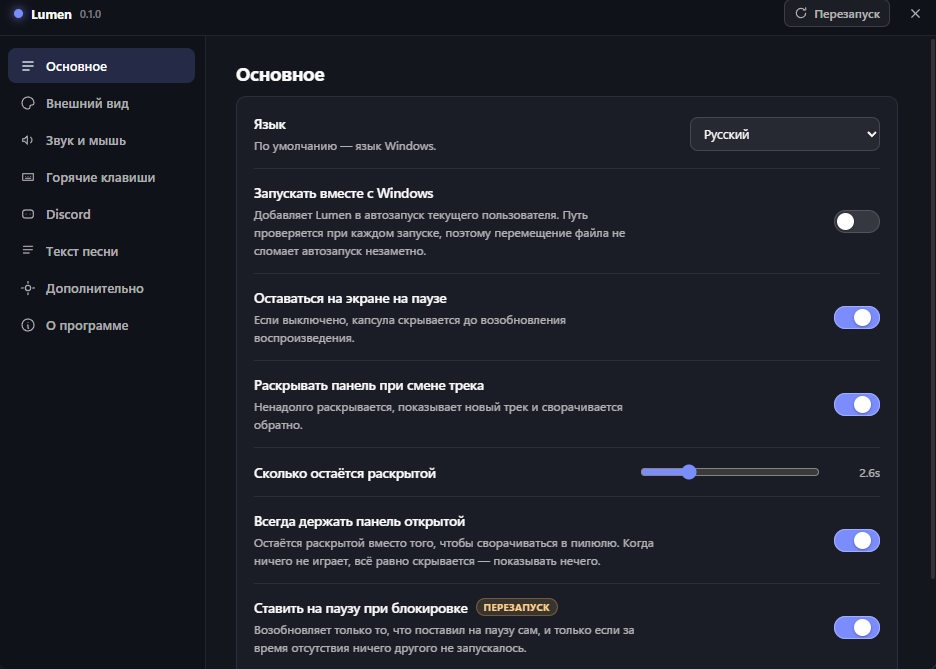
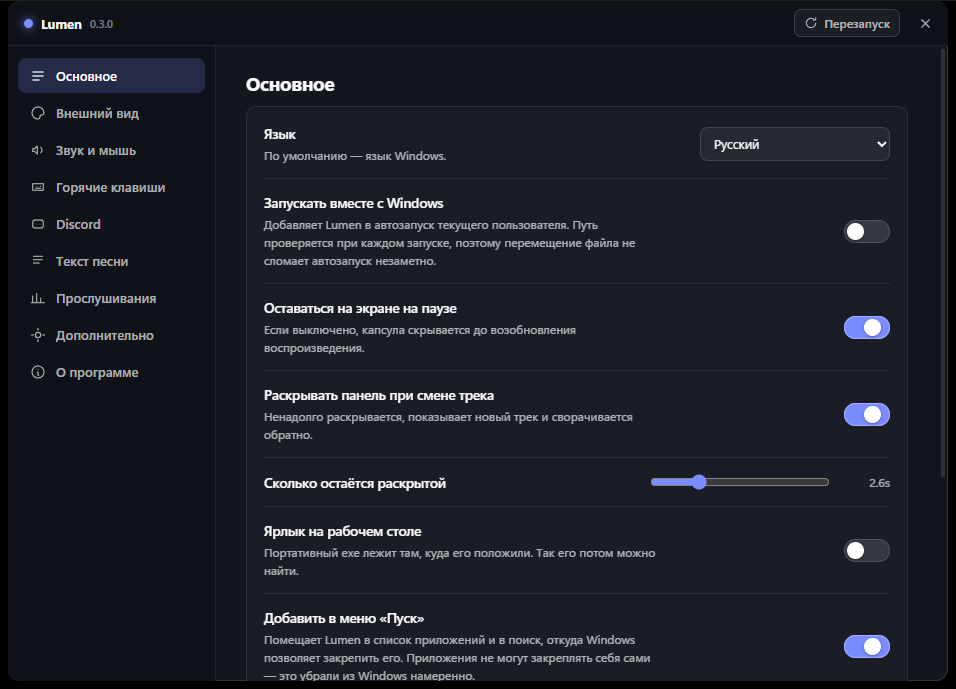
docs: shoot the settings window again at 0.3.0
The screenshots in both READMEs were taken at 0.1.0: an eight-tab sidebar
with no Listening tab, and a version number three releases stale in the
title bar. Retaken from the shipped exe, English and Russian.

The key art and both feature lists also still claimed a 4.3 MB exe. It is
4,652,544 bytes now — 4.4 MB. A size claim is the kind of number a reader
checks against the file they just downloaded, so it does not get to drift.

diff --git a/README.ru.md b/README.ru.md
@@ -58,7 +58,7 @@
   ненадёжен.
 - **Проверка обновлений.** Один запрос за запуск к текстовому файлу в этом
   репозитории. Только сообщает — ничего не скачивает и не подменяет.
-- **Портативность.** Один exe на 4,3 МБ и один JSON рядом с ним. Без
+- **Портативность.** Один exe на 4,4 МБ и один JSON рядом с ним. Без
   установщика и без реестра, кроме необязательной записи автозапуска.
 
 ## Стек

diff --git a/README.md b/README.md
@@ -56,7 +56,7 @@ do with it.
   is unreliable by nature.
 - **Update check.** One request per launch to a text file in this repository.
   It reports; it never downloads or replaces anything.
-- **Portable.** One 4.3 MB exe, one JSON file beside it. No installer, no
+- **Portable.** One 4.4 MB exe, one JSON file beside it. No installer, no
   registry beyond an optional autostart entry.
 
 ## Tech stack
